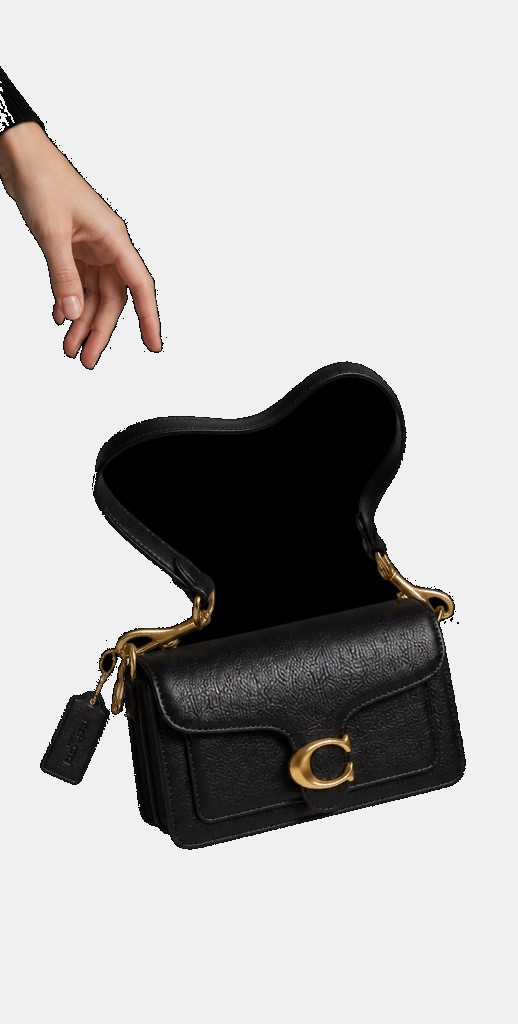
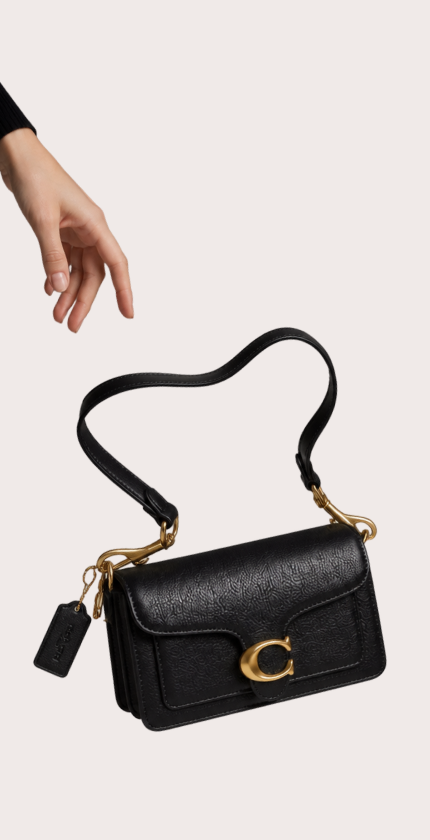
feat(v5,v6): adopt r7 gallery reshoot stills and drop superseded a3 slide
- Replace 10 hero/gallery stills with the r7 reshoot exports (beige studio ground)
- Add heroGalleryExcludeSlideSrcs flag; v5/v6 drop the legacy grey a3 three-quarter that dupes the new a5 back view
- v6 docked footer swatch row polish (selected halo + dot count)
- Fix CI: type the v4 immersive headline/subtext copy in PdpGallerySlideV2 and split the horizontal hero gallery so hooks stay unconditional

Changed region(s): [[0.0, 0.0619, 0.907, 0.8976]]

diff --git a/src/components/pdp/version/pdp-v6-mobile-hero-layout.tsx b/src/components/pdp/version/pdp-v6-mobile-hero-layout.tsx
@@ -6,12 +6,12 @@ import { cn } from "@/lib/cn";
 
 import { PdpHero360IntroProvider } from "../pdp-hero-360-intro-context";
 import { useActiveProduct } from "../pdp-active-product-context";
+import { PdpBuyBarCompactColor } from "../pdp-buy-bar-compact-color";
 import { PdpBuyBarRow } from "../pdp-buy-bar-row";
 import { PdpGalleryHero } from "../pdp-gallery-view";
 import { PdpHeroBelowFoldColorSwatches } from "../pdp-hero-below-fold-color-swatches";
 import { PdpHeroShell } from "../pdp-hero-shell";
 import { useOptionalTabbyVariant } from "../pdp-tabby-variant-context";
-import { pdpType } from "../pdp-type";
 import { useHero360IntroReveal } from "../use-hero-360-intro-reveal";
 
 import { getPdpVersionConfig } from "./pdp-version-config";
@@ -56,7 +56,6 @@ function PdpV6MobileHeroLayoutInner({
   const {
     useV4ModuleSpacing,
     hideBuyBarColorLabel,
-    heroMaterialSubtitleLine,
     hideDockedBuyBarColor,
     inlineBuyBarColorSwatches,
   } = getPdpVersionConfig(usePdpVersion());
@@ -83,27 +82,22 @@ function PdpV6MobileHeroLayoutInner({
             inlineBuyBarColorSwatches && "border-0",
           )}
         >
-          <div className="flex items-start justify-between gap-4">
-            <div className="font-extended flex min-w-0 flex-col text-neutral-900">
-              <p className="min-w-0 truncate text-base leading-[115%] tracking-[0.4px]">
+          <div className="flex items-center justify-between gap-4">
+            <div className="font-extended flex min-w-0 flex-col gap-1.5 text-neutral-900">
+              <p className="min-w-0 text-base leading-[125%] tracking-[0.4px]">
                 {summary.name}
               </p>
-              <p
-                className={cn(
-                  "min-w-0 truncate leading-[115%] tracking-[0.4px]",
-                  heroMaterialSubtitleLine
-                    ? cn(pdpType.label, "mt-1 text-neutral-500")
-                    : "text-xs text-neutral-900",
-                )}
-              >
-                {heroMaterialSubtitleLine
-                  ? summary.subtitle
-                  : `in ${summary.subtitle}`}
+              <p className="text-base leading-none tabular-nums">
+                {summary.price}
               </p>
             </div>
-            <p className="font-extended shrink-0 text-base leading-none tabular-nums text-neutral-900">
-              {summary.price}
-            </p>
+            <PdpBuyBarCompactColor
+              selectedColorId={selectedColorId}
+              onColorSelect={onColorSelect}
+              onColorSheetOpenChange={onColorSheetOpenChange}
+              variant="swatch"
+              className="shrink-0"
+            />
           </div>
 
           <PdpBuyBarRow

diff --git a/src/components/pdp/pdp-hero-gallery.tsx b/src/components/pdp/pdp-hero-gallery.tsx
@@ -118,14 +118,7 @@ export function PdpHeroGallery({
   onOpenArTryOn,
   isLastPanel = false,
   fillFrame = false,
-}: {
-  slides?: PdpHeroGallerySlide[];
-  onOpenReviews?: () => void;
-  onOpenArTryOn?: () => void;
-  isLastPanel?: boolean;
-  /** Size to the parent media frame (PdpHeroShell) instead of 100svh */
-  fillFrame?: boolean;
-}) {
+}: PdpHeroGalleryProps) {
   const versionConfig = getPdpVersionConfig(usePdpVersion());
 
   if (versionConfig.heroVerticalGallery) {
@@ -139,6 +132,38 @@ export function PdpHeroGallery({
     );
   }
 
+  return (
+    <PdpHeroGalleryHorizontal
+      slides={slides}
+      onOpenReviews={onOpenReviews}
+      onOpenArTryOn={onOpenArTryOn}
+      isLastPanel={isLastPanel}
+      fillFrame={fillFrame}
+      versionConfig={versionConfig}
+    />
+  );
+}
+
+type PdpHeroGalleryProps = {
+  slides?: PdpHeroGallerySlide[];
+  onOpenReviews?: () => void;
+  onOpenArTryOn?: () => void;
+  isLastPanel?: boolean;
+  /** Size to the parent media frame (PdpHeroShell) instead of 100svh */
+  fillFrame?: boolean;
+};
+
+/** Horizontal snap carousel — split out so hooks stay unconditional above the v6 vertical branch. */
+function PdpHeroGalleryHorizontal({
+  slides = PDP_HERO_GALLERY_SLIDES,
+  onOpenReviews,
+  onOpenArTryOn,
+  isLastPanel = false,
+  fillFrame = false,
+  versionConfig,
+}: PdpHeroGalleryProps & {
+  versionConfig: ReturnType<typeof getPdpVersionConfig>;
+}) {
   const trackRef = useRef<HTMLDivElement>(null);
   const {
     useStableInfiniteCarousel,
@@ -150,6 +175,7 @@ export function PdpHeroGallery({
     heroGalleryUgcSlides,
     heroGalleryUgcInsertAfterIndex,
     heroGalleryLogicalBlockOrder,
+    heroGalleryExcludeSlideSrcs,
     useHeroGalleryProgressBar,
     showHeroGalleryCategoryRail,
   } = versionConfig;
@@ -165,6 +191,7 @@ export function PdpHeroGallery({
         heroGalleryUgcSlides,
         heroGalleryUgcInsertAfterIndex,
         heroGalleryLogicalBlockOrder,
+        heroGalleryExcludeSlideSrcs,
       }),
     [
       slides,
@@ -175,6 +202,7 @@ export function PdpHeroGallery({
       heroGalleryUgcSlides,
       heroGalleryUgcInsertAfterIndex,
       heroGalleryLogicalBlockOrder,
+      heroGalleryExcludeSlideSrcs,
     ],
   );
   const loopedSlides = useMemo(

diff --git a/src/components/pdp/pdp-compact-color-dots.tsx b/src/components/pdp/pdp-compact-color-dots.tsx
@@ -47,6 +47,11 @@ type PdpCompactColorDotsProps = {
   previewCount?: number;
   moreCountOverride?: number;
   onOpenSheet: () => void;
+  /**
+   * "dot" — tiny availability cue (default). "swatch" — large tappable
+   * swatches with a halo ring on the selected color (v6 docked hero footer).
+   */
+  variant?: "dot" | "swatch";
   className?: string;
 };
 
@@ -57,6 +62,7 @@ export function PdpCompactColorDots({
   previewCount = 3,
   moreCountOverride = 0,
   onOpenSheet,
+  variant = "dot",
   className,
 }: PdpCompactColorDotsProps) {
   const { previewColors, hiddenCount } = buildCompactColorDotPreview(
@@ -70,6 +76,53 @@ export function PdpCompactColorDots({
 
   if (colors.length <= 1) {
     return null;
+  }
+
+  if (variant === "swatch") {
+    return (
+      <button
+        type="button"
+        onClick={onOpenSheet}
+        aria-haspopup="dialog"
+        aria-label={
+          moreCount > 0
+            ? `${selectedColor.name}. ${colors.length} colors available. View all colors.`
+            : `${selectedColor.name}. View all colors.`
+        }
+        className={cn(
+          "inline-flex items-center gap-1.5",
+          pdpPressableIconClass,
+          className,
+        )}
+      >
+        <span aria-hidden className="flex items-center gap-1.5">
+          {previewColors.map((color) =>
+            color.id === selectedId ? (
+              <span
+                key={color.id}
+                className="flex size-9 shrink-0 items-center justify-center rounded-full bg-neutral-200"
+              >
+                <span
+                  className="size-5 rounded-full"
+                  style={{ backgroundColor: color.chromeSample ?? "#d4d4d4" }}
+                />
+              </span>
+            ) : (
+              <span
+                key={color.id}
+                className="size-[30px] shrink-0 rounded-full"
+                style={{ backgroundColor: color.chromeSample ?? "#d4d4d4" }}
+              />
+            ),
+          )}
+        </span>
+        {moreCount > 0 ? (
+          <span className="font-extended text-sm tracking-[0.2px] text-neutral-900">
+            +{moreCount}
+          </span>
+        ) : null}
+      </button>
+    );
   }
 
   return (

diff --git a/src/components/pdp/version/pdp-version-config.ts b/src/components/pdp/version/pdp-version-config.ts
@@ -2,6 +2,7 @@ import { PDP_GALLERY_SLIDES } from "../pdp-data";
 import { HERO_360_INTRO_VIDEO_SRC } from "../pdp-video-sources";
 import {
   HERO_ON_MODEL_BLACK_DRESS_SRC,
+  HERO_THREE_QUARTER_STILL_SRC,
   type PdpHeroGallerySlide,
 } from "../pdp-hero-gallery-data";
 import { PDP_CHAPTERS, type PdpChapter } from "../pdp-section-chapters";
@@ -172,6 +173,11 @@ export type PdpVersionConfig = {
    * stills, fits inside, 360°, community last. v5 only.
    */
   heroGalleryLogicalBlockOrder: boolean;
+  /**
+   * Hero slide srcs dropped from the gallery — stills superseded by the r7
+   * reshoot (e.g. the grey-ground a3 three-quarter). v5/v6 only.
+   */
+  heroGalleryExcludeSlideSrcs?: string[];
   /**
    * the progressive color drawer so it always demos the sold-out affordance
    * (Paper r5 `J2K-0`). v4 only — mirrors the existing Explore Materials demo.
@@ -797,6 +803,8 @@ const V5_CONFIG: PdpVersionConfig = {
   lockHeroGalleryTemplate: true,
   heroGalleryLeadSlideSrc: HERO_ON_MODEL_BLACK_DRESS_SRC,
   heroGalleryLogicalBlockOrder: true,
+  // r7 reshoot drops the legacy grey-ground a3 three-quarter (dupes the new a5 back view).
+  heroGalleryExcludeSlideSrcs: [HERO_THREE_QUARTER_STILL_SRC],
   // v5 weaves Out in the wild UGC into the hero carousel after product content.
   heroGalleryUgcSlides: buildHeroGallerySlidesFromUgcTestimonials(
     HERO_GALLERY_V5_UGC_TESTIMONIAL_IDS,
@@ -863,6 +871,8 @@ const V6_CONFIG: PdpVersionConfig = {
   heroGalleryPrependLeadSlide: undefined,
   heroGalleryLeadSlideSrc: "",
   leadGalleryWithProductStill: true,
+  // v6 docked footer swatch row — selected halo + three more colors before +N.
+  compactBuyBarColorDotCount: 4,
 };
 
 const CONFIG_BY_VERSION: Record<PdpVersion, PdpVersionConfig> = {

diff --git a/src/components/pdp/pdp-hero-gallery-data.ts b/src/components/pdp/pdp-hero-gallery-data.ts
@@ -61,6 +61,12 @@ const HERO_STILL_BASE = "/images/hero/tabby26";
 /** The A0 product still promoted to slide 0 in v4 (Paper r5). */
 const HERO_LEAD_PRODUCT_STILL_SRC = `${HERO_STILL_BASE}/ccx04_b4bk_a0.webp`;
 
+/**
+ * Legacy grey-ground three-quarter back view — superseded by the r7 beige
+ * back-view still (a5), so v5/v6 drop it via `heroGalleryExcludeSlideSrcs`.
+ */
+export const HERO_THREE_QUARTER_STILL_SRC = `${HERO_STILL_BASE}/ccx04_b4bk_a3.webp`;
+
 /** Stable key for deduping and React keys. */
 export function getHeroGallerySlideKey(slide: PdpHeroGallerySlide): string {
   return slide.src;
@@ -299,6 +305,8 @@ export type HeroGalleryOrderingOptions = {
    * 360°, then community UGC appended last.
    */
   heroGalleryLogicalBlockOrder?: boolean;
+  /** Slide srcs dropped from the gallery — e.g. stills superseded by a reshoot. */
+  heroGalleryExcludeSlideSrcs?: string[];
 };
 
 /** Version-aware hero slide ordering — shared by mobile carousel + desktop rail. */
@@ -307,6 +315,11 @@ export function orderHeroGallerySlides(
   options: HeroGalleryOrderingOptions = {},
 ): PdpHeroGallerySlide[] {
   const useLogicalBlocks = options.heroGalleryLogicalBlockOrder === true;
+
+  const excludeSrcs = options.heroGalleryExcludeSlideSrcs;
+  if (excludeSrcs?.length) {
+    slides = slides.filter((slide) => !excludeSrcs.includes(slide.src));
+  }
 
   let result =
     options.leadGalleryWithProductStill ||

diff --git a/src/components/pdp/version/pdp-data-v2.ts b/src/components/pdp/version/pdp-data-v2.ts
@@ -1,4 +1,9 @@
-import { PDP_GALLERY_SLIDES, type PdpGallerySlide, type PdpUgcVideo } from "../pdp-data";
+import {
+  PDP_GALLERY_SLIDES,
+  type PdpGalleryImmersiveSlide,
+  type PdpGallerySlide,
+  type PdpUgcVideo,
+} from "../pdp-data";
 import type {
   PdpHeroGallerySlide,
   PdpHeroSurface,
@@ -36,9 +41,16 @@ export type PdpGalleryGetTheHighlightsSlide = {
   type: "get-the-highlights";
 };
 
+/** v4 immersive slide — optional headline/subtext copy above the frame (Paper KJY-0). */
+export type PdpGalleryImmersiveSlideV2 = PdpGalleryImmersiveSlide & {
+  headline?: string;
+  subtext?: string;
+};
+
 /** v2 slide union — every v1 slide plus v2-only slide types */
 export type PdpGallerySlideV2 =
-  | PdpGallerySlide
+  | Exclude<PdpGallerySlide, PdpGalleryImmersiveSlide>
+  | PdpGalleryImmersiveSlideV2
   | PdpGalleryEditorialCarouselSlide
   | PdpGalleryUgcCommunitySlide
   | PdpGalleryWaysToWearSlide

diff --git a/src/components/pdp/pdp-buy-bar-compact-color.tsx b/src/components/pdp/pdp-buy-bar-compact-color.tsx
@@ -17,6 +17,8 @@ type PdpBuyBarCompactColorProps = {
   selectedColorId: string;
   onColorSelect: (id: string) => void;
   onColorSheetOpenChange?: (open: boolean) => void;
+  /** Dot row style — "swatch" renders the large v6 hero footer swatches. */
+  variant?: "dot" | "swatch";
   className?: string;
 };
 
@@ -25,6 +27,7 @@ export function PdpBuyBarCompactColor({
   selectedColorId,
   onColorSelect,
   onColorSheetOpenChange,
+  variant = "dot",
   className,
 }: PdpBuyBarCompactColorProps) {
   const tabby = useOptionalTabbyVariant();
@@ -98,6 +101,7 @@ export function PdpBuyBarCompactColor({
         previewCount={compactBuyBarColorDotCount}
         moreCountOverride={heroColorSwatchMoreCountOverride}
         onOpenSheet={() => setSheetOpen(true)}
+        variant={variant}
         className={className}
       />
     </>

diff --git a/src/components/pdp/pdp-hero-gallery-vertical.tsx b/src/components/pdp/pdp-hero-gallery-vertical.tsx
@@ -105,6 +105,7 @@ export function PdpHeroGalleryVertical({
     hero360IntroVideoSrc,
     heroGalleryUgcSlides,
     heroGalleryUgcInsertAfterIndex,
+    heroGalleryExcludeSlideSrcs,
   } = getPdpVersionConfig(usePdpVersion());
   const { isGalleryScrollReady } = useHero360Intro();
   const reducedMotion = useReducedMotion();
@@ -121,6 +122,7 @@ export function PdpHeroGalleryVertical({
         heroGalleryPrependLeadSlide,
         heroGalleryUgcSlides,
         heroGalleryUgcInsertAfterIndex,
+        heroGalleryExcludeSlideSrcs,
       }),
     [
       slides,
@@ -130,6 +132,7 @@ export function PdpHeroGalleryVertical({
       heroGalleryPrependLeadSlide,
       heroGalleryUgcSlides,
       heroGalleryUgcInsertAfterIndex,
+      heroGalleryExcludeSlideSrcs,
     ],
   );
 

diff --git a/src/components/pdp/version/pdp-v5-desktop-media-column.tsx b/src/components/pdp/version/pdp-v5-desktop-media-column.tsx
@@ -23,6 +23,7 @@ function usePdpV5DesktopMediaSlides() {
     heroGalleryUgcSlides,
     heroGalleryUgcInsertAfterIndex,
     heroGalleryLogicalBlockOrder,
+    heroGalleryExcludeSlideSrcs,
   } = getPdpVersionConfig(version);
 
   return orderHeroGallerySlides(PDP_HERO_GALLERY_SLIDES, {
@@ -31,6 +32,7 @@ function usePdpV5DesktopMediaSlides() {
     heroGalleryUgcSlides,
     heroGalleryUgcInsertAfterIndex,
     heroGalleryLogicalBlockOrder,
+    heroGalleryExcludeSlideSrcs,
   });
 }
 
